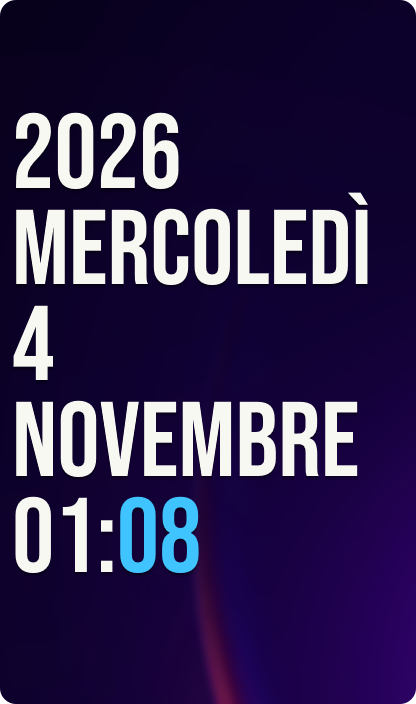
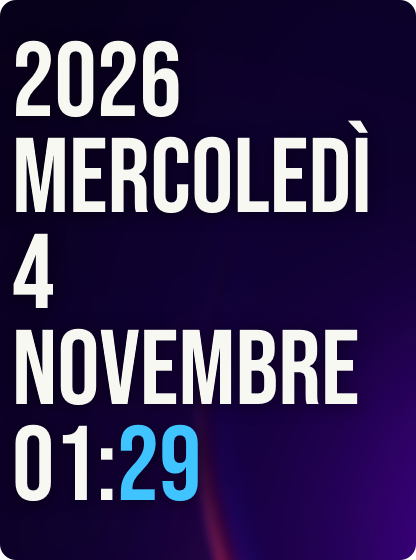
Soft Gaussian text shadow instead of offset copies
Uses the renderer's textShadow; SVG strokes get a faint halo and dividers
or tiles a box shadow. Previews refreshed.

Claude-Session: https://claude.ai/code/session_01TQxuuqy7Zop3gq1fjvXepm

diff --git a/src/shared/look.tsx b/src/shared/look.tsx
@@ -12,12 +12,17 @@ export interface Look {
   track: string;
   accent: string;
   onAccent: string;
+  /** CSS text-shadow on the wallpaper, null on a card or when turned off. */
+  shadow: string | null;
+  /** Colour of the soft halo SVG strokes get under them (SVG has no shadow), or null. */
+  halo: string | null;
 }
 
 export interface LookSettings {
   theme: string; // "dark" (light text) | "light" (dark text) | "auto" (follow Windows)
   accent: string; // "system" | "#RRGGBB"
   background: string; // "none" | "acrylic"
+  shadow?: boolean;
 }
 
 const valid = (c: string) => /^#[0-9a-fA-F]{6}$/.test(c);
@@ -49,9 +54,13 @@ export function look(s: LookSettings, system = { dark: true, accent: "#0078D4" }
     const base = valid(system.accent) ? system.accent : "#0078D4";
     accent = dark ? mix(base, 0.45) : mix(base, -0.2);
   } else accent = s.accent;
+  const card = s.background === "acrylic";
+  const shade = !card && s.shadow !== false;
   const base = {
     dark,
-    card: s.background === "acrylic",
+    card,
+    shadow: shade ? (dark ? "0 1px 8px rgba(0, 0, 0, 0.5)" : "0 0 8px rgba(255, 255, 255, 0.55)") : null,
+    halo: shade ? (dark ? "rgba(0, 0, 0, 0.1)" : "rgba(255, 255, 255, 0.22)") : null,
     accent,
     onAccent: luminance(accent) > 0.35 ? "#000000" : "#FFFFFF",
   };
@@ -73,27 +82,12 @@ export function uses12h(hourFormat: string): boolean {
   return localeInfo().hour12;
 }
 
-/** Every colour of the look replaced by one, for the shadow layers. */
-function flat(l: Look, color: string, track: string): Look {
-  return { ...l, text: color, text2: color, text3: color, track, accent: color, onAccent: color };
-}
-
 /**
  * The widget surface. Transparent by default, like the original desktop theme, with a soft
- * drop shadow under text, arcs and icons for legibility on any wallpaper (the renderer has no
- * text-shadow, so the content is drawn again, offset, in a translucent shadow colour).
- * "acrylic" puts the content on a Windows 11 card instead.
+ * Gaussian text shadow for legibility on any wallpaper; "acrylic" puts the content on a
+ * Windows 11 card instead.
  */
 export function Surface(props: { l: Look; shadow?: boolean; style?: Style; children: (l: Look) => JSX.Element }) {
-  const layer = (dy: number): Style => ({
-    position: "absolute",
-    inset: 0,
-    ...(dy ? { transform: `translateY(${dy}px)` } : {}),
-    ...props.style,
-  });
-  const shade = () => props.shadow !== false && !props.l.card;
-  // Light text gets a dark shadow; dark text a faint light one.
-  const tone = (a: number) => (props.l.dark ? `rgba(0, 0, 0, ${a})` : `rgba(255, 255, 255, ${a * 1.2})`);
   return (
     <view
       style={{
@@ -102,6 +96,7 @@ export function Surface(props: { l: Look; shadow?: boolean; style?: Style; child
         borderRadius: 8,
         overflow: "hidden",
         color: props.l.text,
+        ...(props.l.shadow ? { textShadow: props.l.shadow } : {}),
         ...(props.l.card
           ? {
               background: props.l.dark
@@ -110,11 +105,10 @@ export function Surface(props: { l: Look; shadow?: boolean; style?: Style; child
               border: `1px solid ${props.l.dark ? "rgba(255, 255, 255, 0.09)" : "rgba(0, 0, 0, 0.07)"}`,
             }
           : {}),
+        ...props.style,
       }}
     >
-      {shade() ? <view style={layer(2)}>{props.children(flat(props.l, tone(0.14), tone(0.05)))}</view> : null}
-      {shade() ? <view style={layer(1)}>{props.children(flat(props.l, tone(0.3), tone(0.1)))}</view> : null}
-      <view style={layer(0)}>{props.children(props.l)}</view>
+      {props.children(props.l)}
     </view>
   );
 }

diff --git a/src/shared/icons.tsx b/src/shared/icons.tsx
@@ -24,34 +24,34 @@ const P = {
 
 export type IconName = keyof typeof P;
 
-export function Icon(props: { name: IconName; size: number; color: string; stroke?: number }) {
+/** A path stroked over a wider, faint halo stroke: SVG's stand-in for a soft shadow. */
+function Stroke(props: { d: string; color: string; width: number; halo?: string | null }) {
+  return (
+    <>
+      {props.halo ? (
+        <path d={props.d} fill="none" stroke={props.halo} strokeWidth={props.width * 2.4} strokeLinecap="round" strokeLinejoin="round" />
+      ) : null}
+      <path d={props.d} fill="none" stroke={props.color} strokeWidth={props.width} strokeLinecap="round" strokeLinejoin="round" />
+    </>
+  );
+}
+
+export function Icon(props: { name: IconName; size: number; color: string; stroke?: number; halo?: string | null }) {
   return (
     <svg width={props.size} height={props.size} viewBox="0 0 24 24">
-      <path
-        d={P[props.name]}
-        fill="none"
-        stroke={props.color}
-        strokeWidth={props.stroke ?? 1.5}
-        strokeLinecap="round"
-        strokeLinejoin="round"
-      />
+      <Stroke d={P[props.name]} color={props.color} width={props.stroke ?? 1.5} halo={props.halo} />
     </svg>
   );
 }
 
 /** Battery outline with 0–4 level bars or a charging bolt. */
-export function BatteryIcon(props: { level: number; charging: boolean; size: number; color: string; stroke?: number }) {
+export function BatteryIcon(props: { level: number; charging: boolean; size: number; color: string; stroke?: number; halo?: string | null }) {
   const bars = () => (props.level > 80 ? 4 : props.level > 60 ? 3 : props.level > 40 ? 2 : props.level > 20 ? 1 : 0);
   const d = () =>
-    props.charging
-      ? P.bolt
-      : ["M7 10v4", "M10 10v4", "M13 10v4", "M16 10v4"].slice(0, bars()).join(" ");
+    P.battery + " " + (props.charging ? P.bolt : ["M7 10v4", "M10 10v4", "M13 10v4", "M16 10v4"].slice(0, bars()).join(" "));
   return (
     <svg width={props.size} height={props.size} viewBox="0 0 24 24">
-      <path d={P.battery} fill="none" stroke={props.color} strokeWidth={props.stroke ?? 1.5} strokeLinecap="round" strokeLinejoin="round" />
-      {d() ? (
-        <path d={d()} fill="none" stroke={props.color} strokeWidth={props.stroke ?? 1.5} strokeLinecap="round" strokeLinejoin="round" />
-      ) : null}
+      <Stroke d={d()} color={props.color} width={props.stroke ?? 1.5} halo={props.halo} />
     </svg>
   );
 }

diff --git a/src/gauges/index.tsx b/src/gauges/index.tsx
@@ -32,6 +32,9 @@ function Dial(props: { l: Look; g: Gauge; d: number; showValue: boolean }) {
   return (
     <view style={{ width: props.d, height: props.d, flexShrink: 0 }}>
       <svg width={props.d} height={props.d} viewBox={`0 0 ${props.d} ${props.d}`}>
+        {props.l.halo ? (
+          <path d={arc(c(), r(), -SWEEP / 2, SWEEP / 2)} fill="none" stroke={props.l.halo} strokeWidth={stroke() * 1.4} strokeLinecap="round" />
+        ) : null}
         <path d={arc(c(), r(), -SWEEP / 2, SWEEP / 2)} fill="none" stroke={props.l.track} strokeWidth={stroke()} strokeLinecap="round" />
         <path
           d={arc(c(), r(), -SWEEP / 2, SWEEP / 2)}
@@ -46,9 +49,9 @@ function Dial(props: { l: Look; g: Gauge; d: number; showValue: boolean }) {
       </svg>
       <view style={{ position: "absolute", inset: 0, alignItems: "center", justifyContent: "center" }}>
         {typeof props.g.icon === "string" ? (
-          <Icon name={props.g.icon} size={icon()} color={props.l.text} />
+          <Icon name={props.g.icon} size={icon()} color={props.l.text} halo={props.l.halo} />
         ) : (
-          <BatteryIcon level={props.g.icon.level} charging={props.g.icon.charging} size={icon()} color={props.l.text} />
+          <BatteryIcon level={props.g.icon.level} charging={props.g.icon.charging} size={icon()} color={props.l.text} halo={props.l.halo} />
         )}
       </view>
       <view style={{ position: "absolute", left: 0, bottom: 0, width: "100%", alignItems: "center", justifyContent: "center" }}>

diff --git a/src/weather/index.tsx b/src/weather/index.tsx
@@ -37,7 +37,7 @@ function Weather() {
         <>
       {w.data() ? (
         <>
-          <Icon name={weatherIcon(w.data()!.code, w.data()!.isDay)} size={Math.round(fs() * 2)} color={c.text} />
+          <Icon name={weatherIcon(w.data()!.code, w.data()!.isDay)} size={Math.round(fs() * 2)} color={c.text} halo={c.halo} />
           <text style={{ fontSize: fs(), lineHeight: 1.5, color: c.text, textAlign: textAlign() }}>
             {`Today weather in ${w.data()!.place}`}
             <br />
@@ -53,7 +53,7 @@ function Weather() {
         </>
       ) : (
         <>
-          <Icon name={w.error() ? "off" : "loader"} size={Math.round(fs() * 2)} color={c.text} />
+          <Icon name={w.error() ? "off" : "loader"} size={Math.round(fs() * 2)} color={c.text} halo={c.halo} />
           <text style={{ fontSize: fs(), color: c.text, textAlign: textAlign() }}>{emptyMessage(w.error(), w.query())}</text>
         </>
       )}
